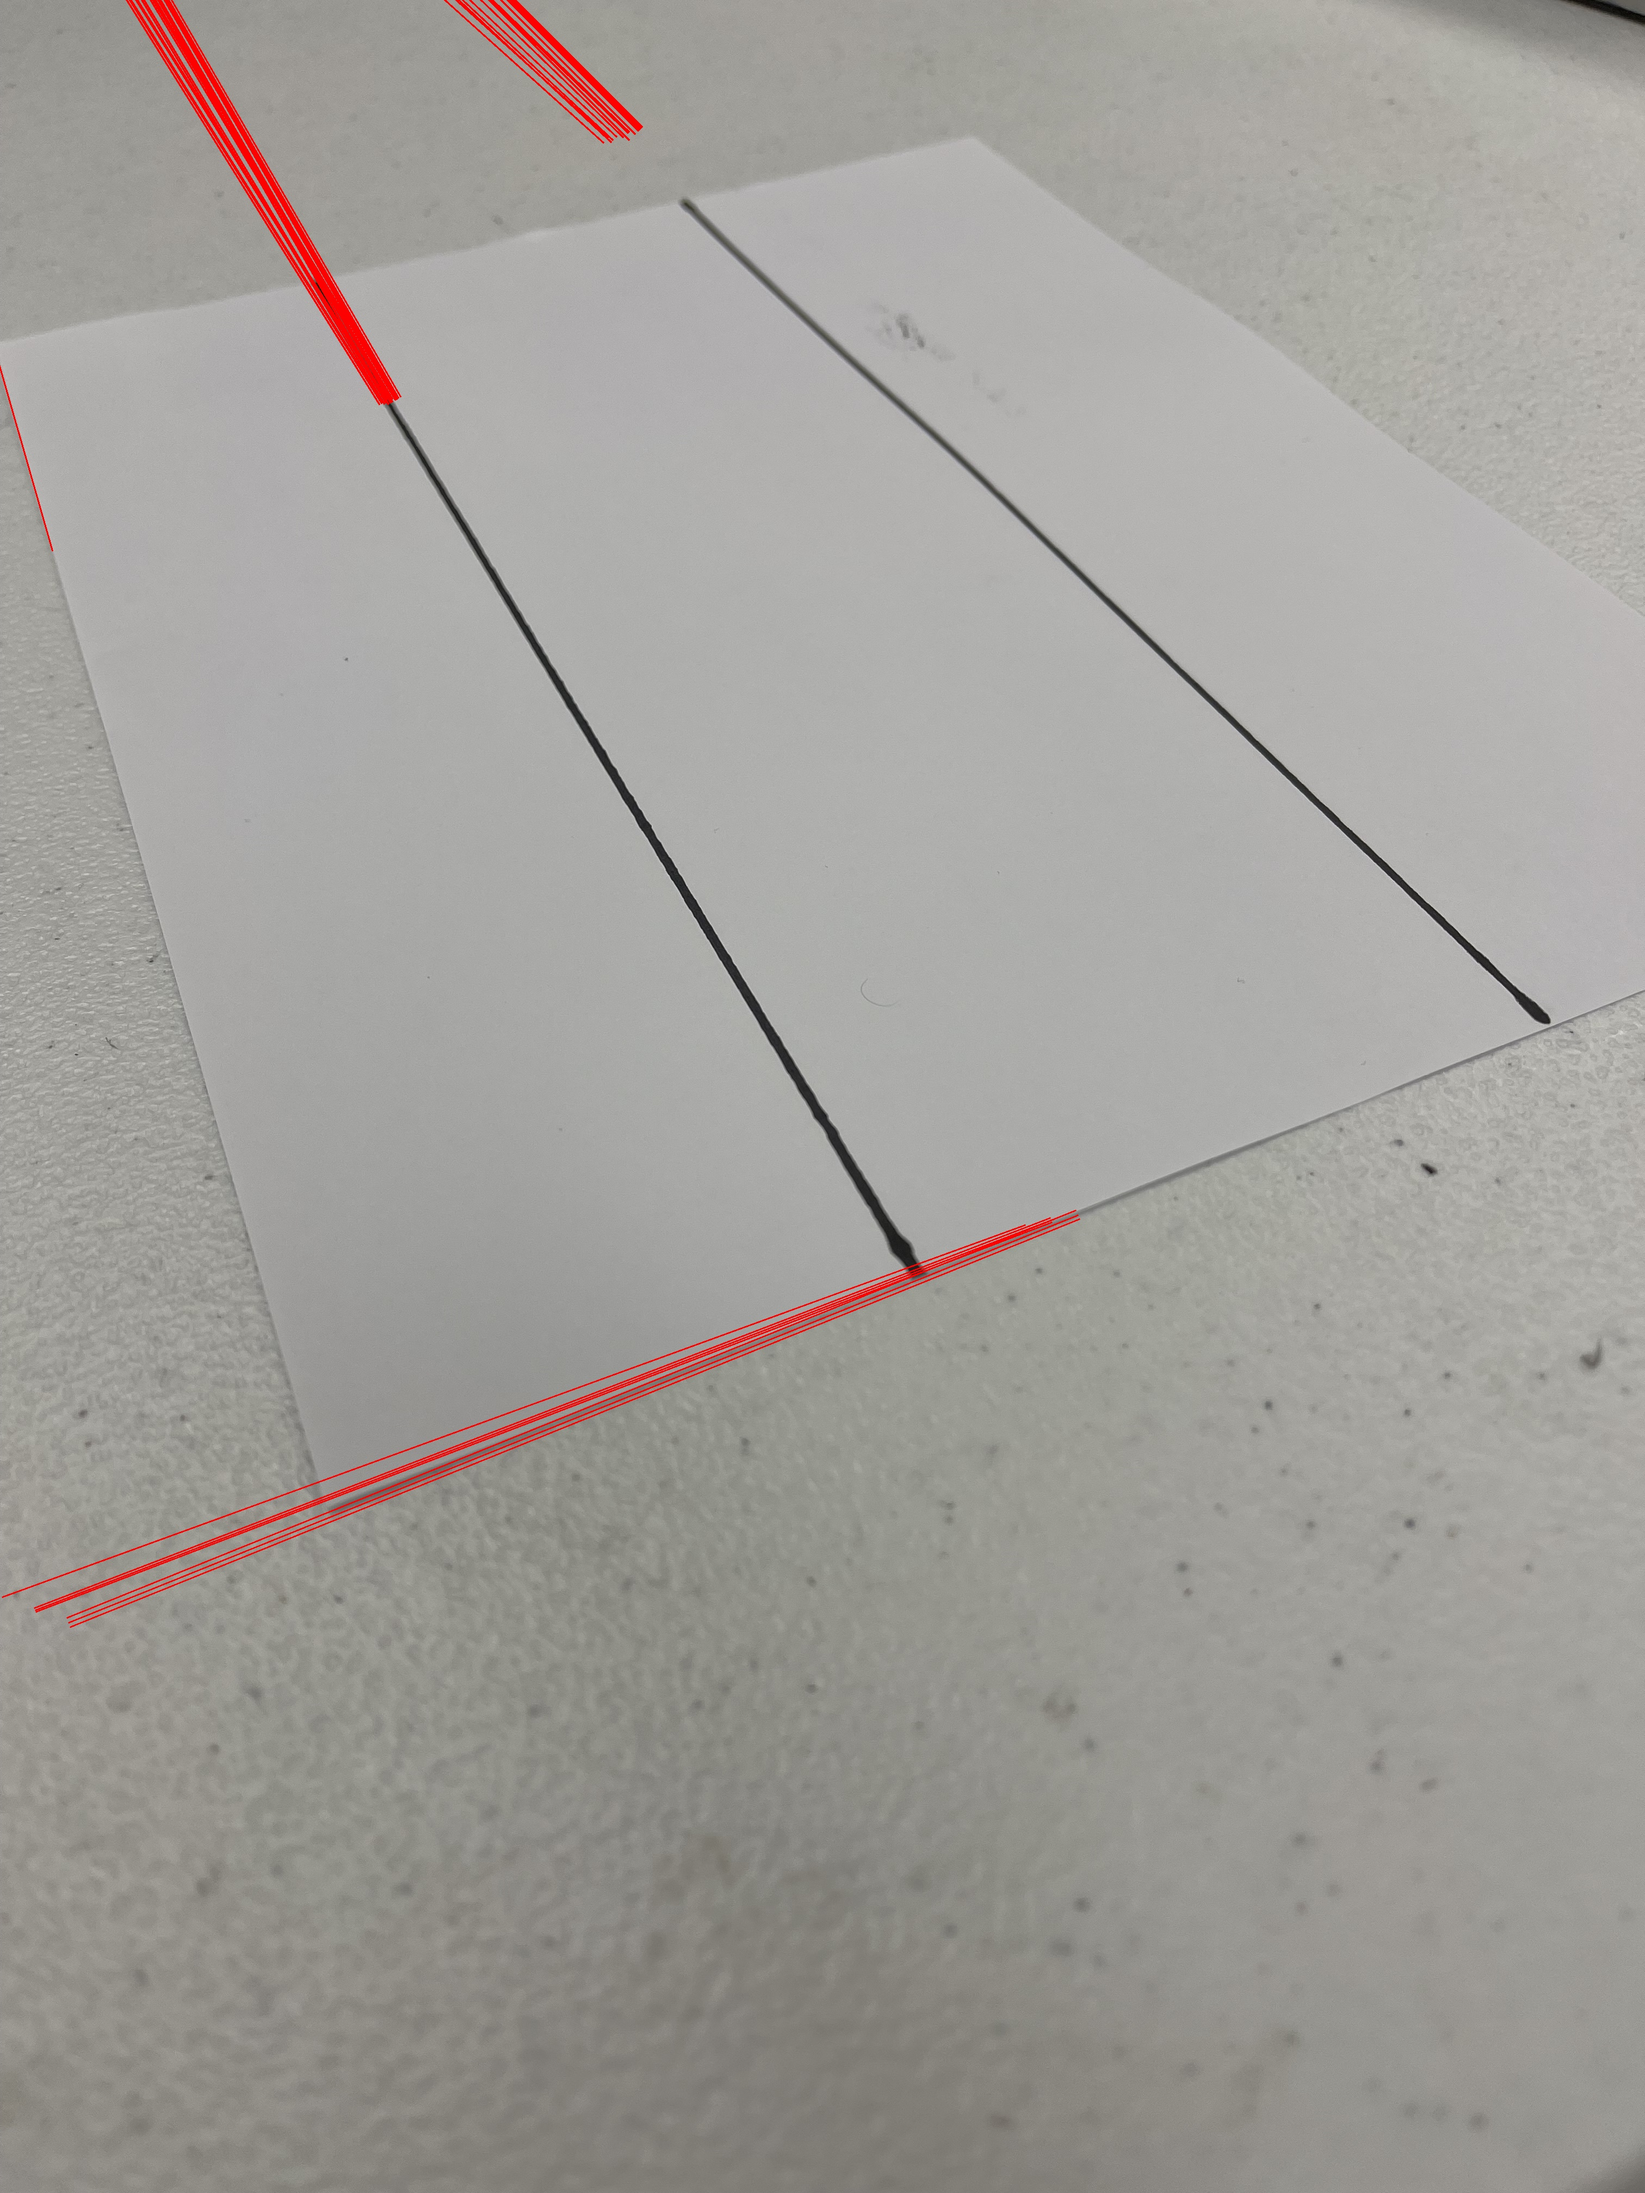
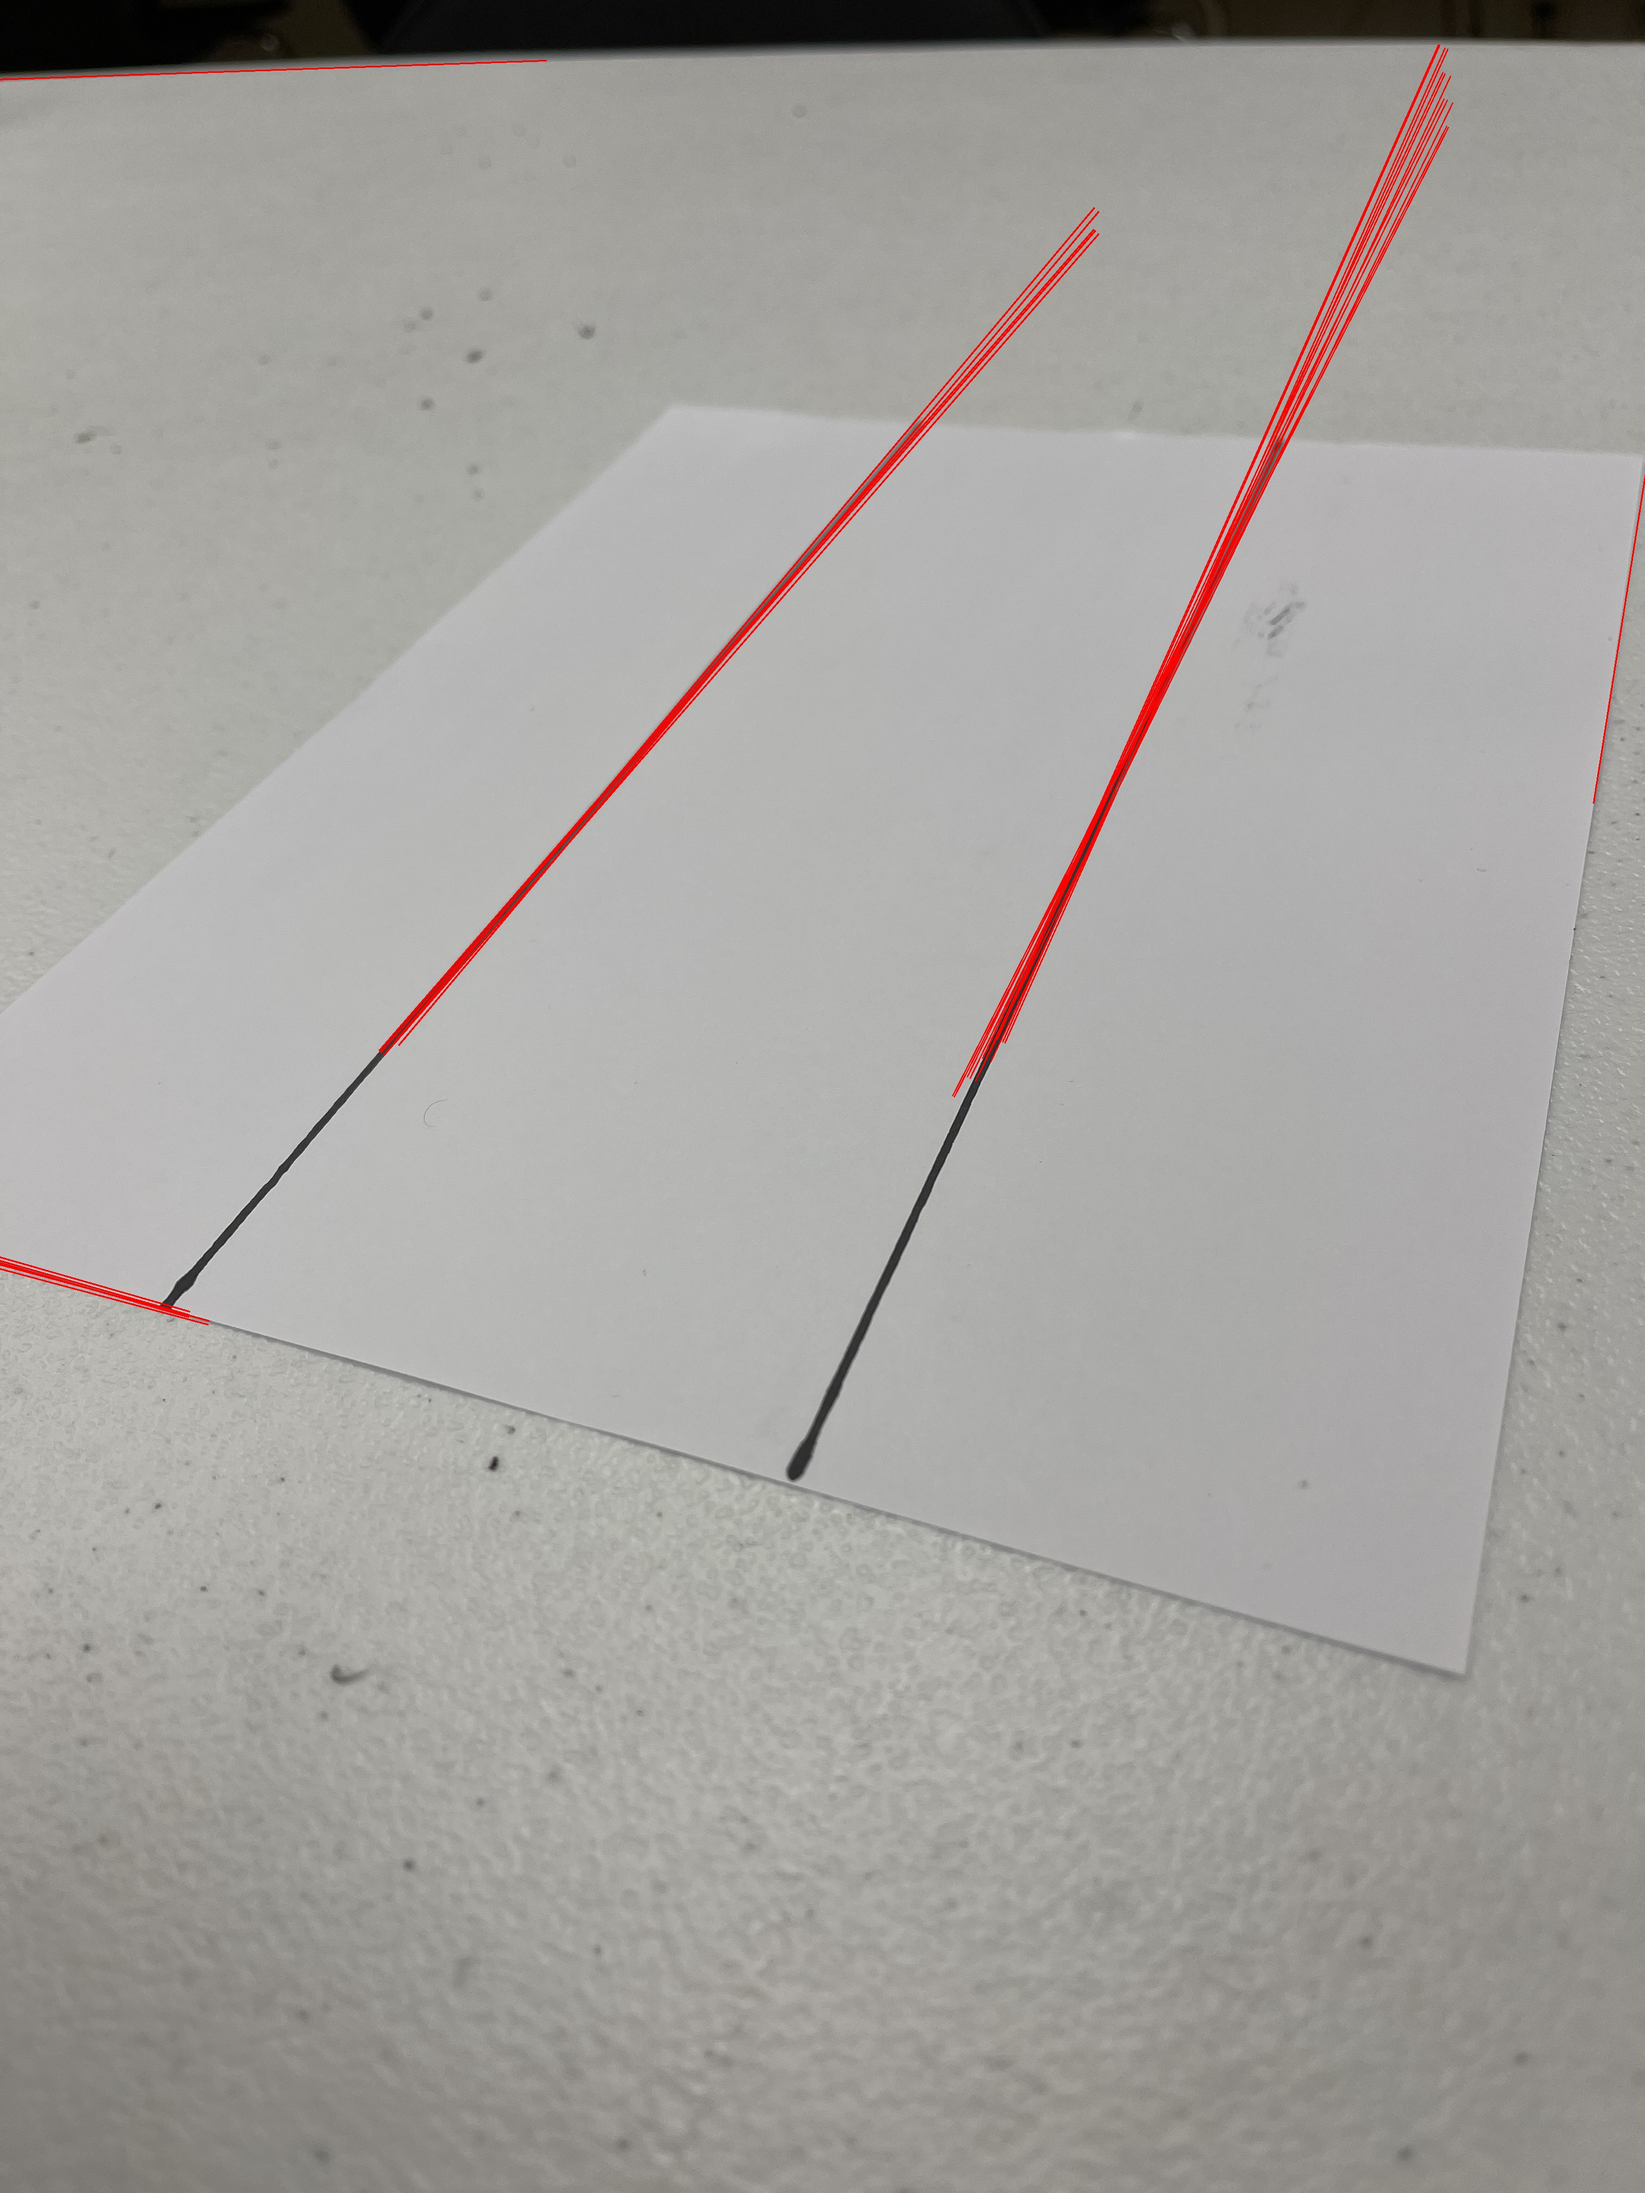
hi

diff --git a/laslinias.py b/laslinias.py
@@ -1,7 +1,7 @@
 import cv2
 import numpy as np
 
-img = cv2.imread('IMG-1199.jpg')
+img = cv2.imread('IMG-1198.jpg')
 
 gray = cv2.cvtColor(img, cv2.COLOR_BGR2GRAY)
 edges = cv2.Canny(gray, 50, 150, apertureSize=3)
